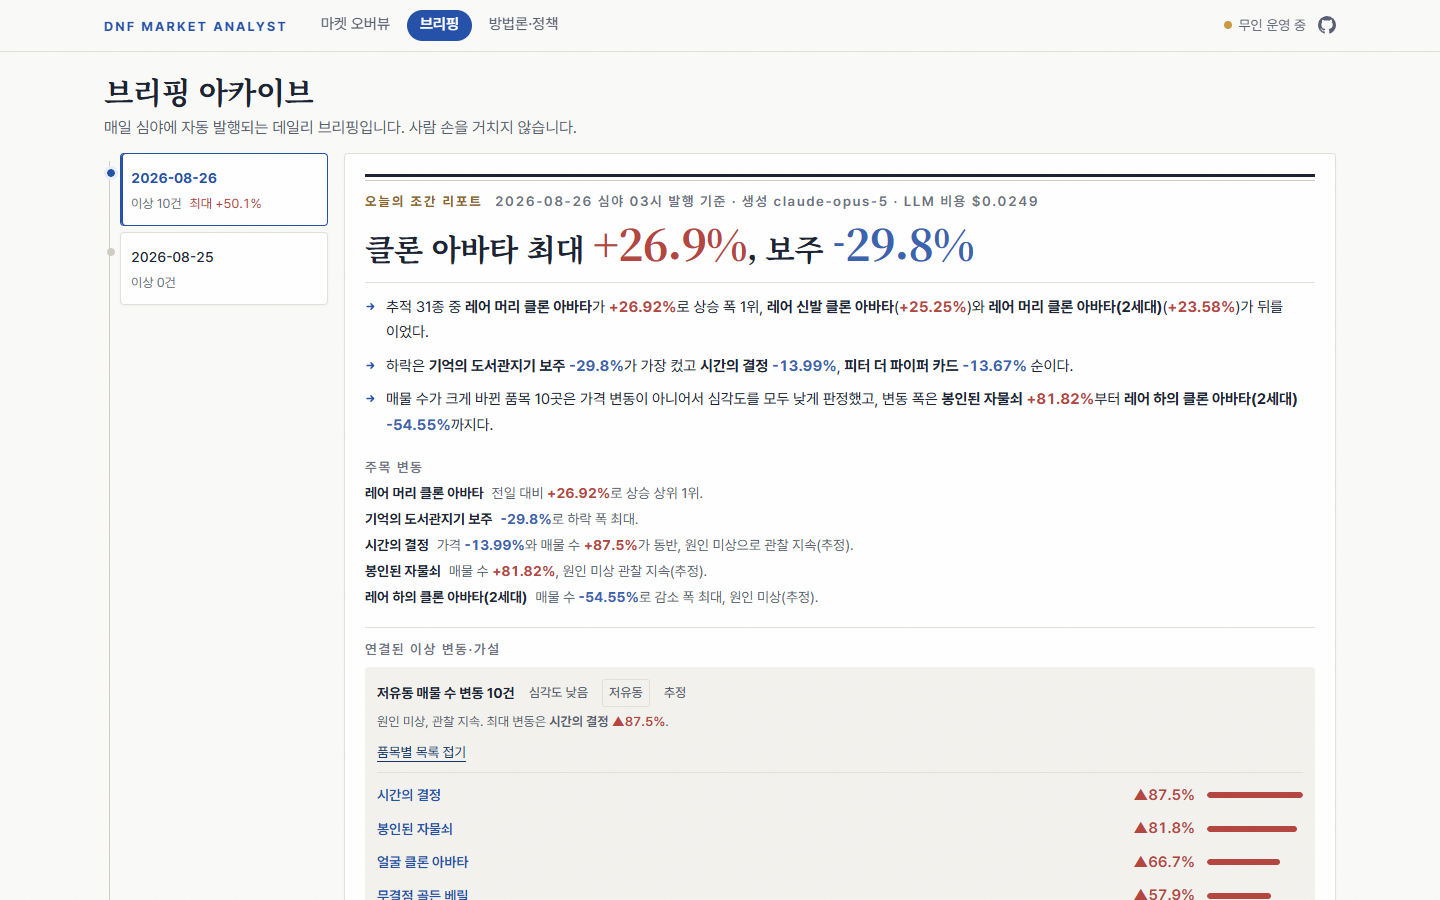
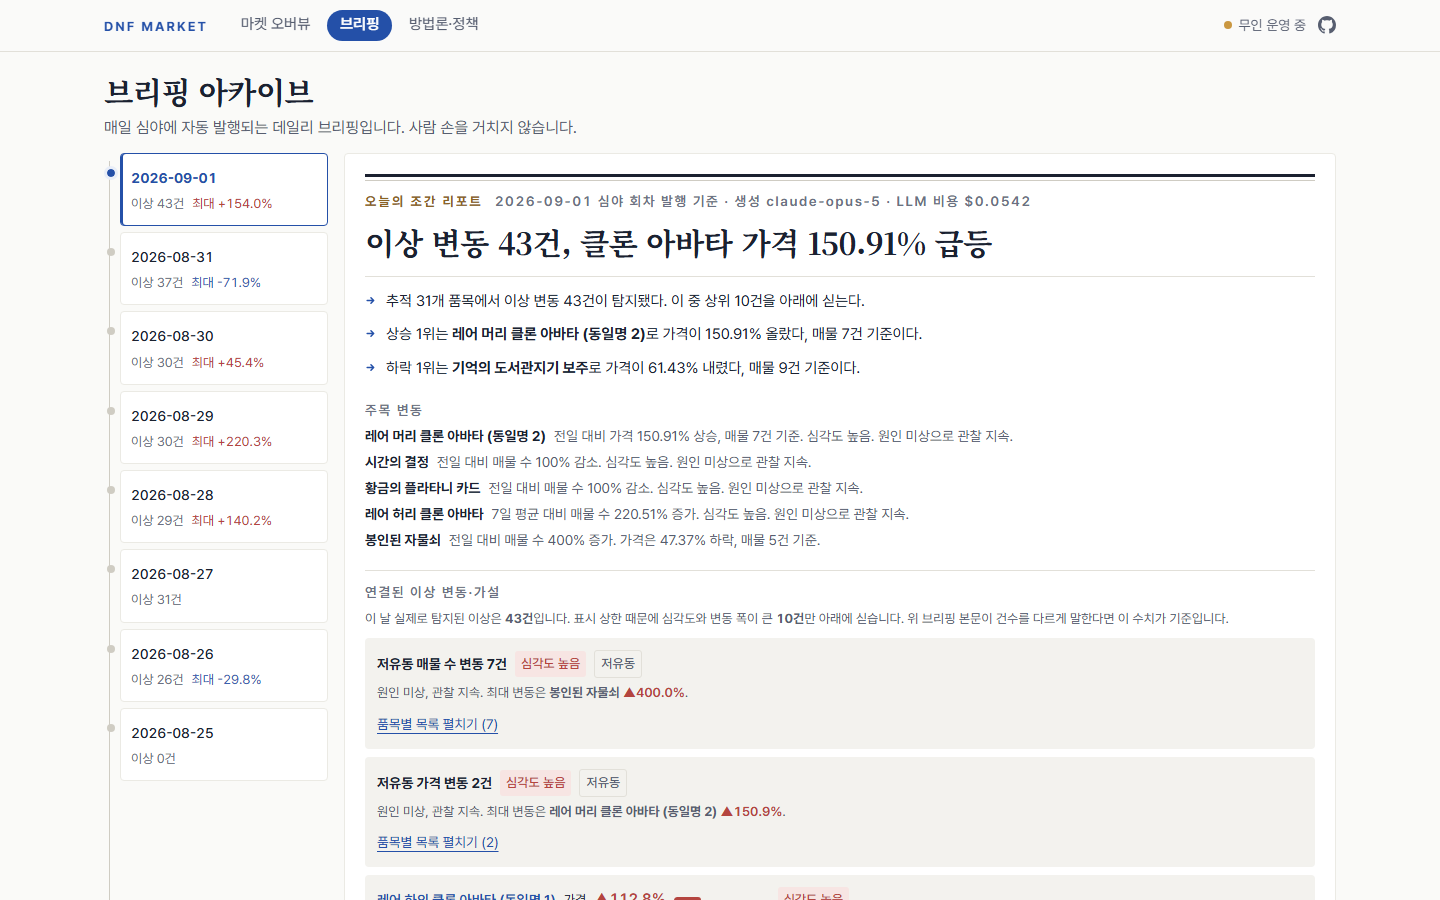
[docs] README 전면 재작성, 스크린샷 최신화
DNF Census README와 같은 말투·구조로 다시 썼다.

- ~한다체를 전부 ~습니다체로. 굵은 글씨는 문서 전체에서 1곳만 남김
- 내부 용어를 쉬운 말로 교체 ("멱등 병합" → "같은 회차가 두 번 들어와도 한 번만 반영",
  "스냅샷 축적 구조" → "값을 볼 때마다 직접 찍어 쌓는 구조").
  3층 CSS 토큰 같은 구현 서술은 삭제
- census형 이야기 구조로 재편: 무엇을 만들었나 / 어떻게 돌아가나 /
  운영하며 겪은 일 / 무엇을 어떻게 탐지하나 / 품목 31종을 고른 기준 /
  비용 실측 / 데이터 윤리 원칙 / 어떻게 만들었나 / 이 대시보드에서 쓰는 말 / 고지
- "운영하며 겪은 일" 신설. 점검일 전 품목 실패, 대표값 정의 변경과 과거 브리핑
  재현 불가, 예약 실행 지연 3건을 각각 무슨 일이 있었고 어떻게 판단했고 지금은
  어떤지로 정리
- 수치를 현행 데이터와 대조해 교정. 품목 묶음 구성을 실제 items.json 기준으로
  다시 씀(큐브 4, 제작·마법부여 3, 증폭 2, 기타 3, 상자 1, 마법부여 4,
  레어 아바타 12, 일반 아바타 2). 비용 실측을 원장 누적값으로 갱신
  (해석 회당 $0.0016 / 32회, 브리핑 회당 $0.0380 / 14회, 하루 최대 $0.29)
- 스크린샷 3장을 배포된 최신 화면으로 재촬영 (1440x900, 순위 보드·조간 리포트·새 차트 반영)

diff --git a/README.md b/README.md
@@ -1,126 +1,233 @@
 # DNF Market, 던파 시세 분석·브리핑
 
-> 기존 던파 시세 서비스가 "지금 얼마인지"를 보여주는 **조회 도구**라면, 본 시스템은
-> **"왜 움직였고 무엇을 주목해야 하는지"를 해석해 데일리 브리핑으로 만드는 분석 시스템**이다.
+던전앤파이터 경매장 시세를 매일 자동으로 모으고, 크게 움직인 품목이 왜 움직였는지까지
+사람 손 없이 적어 내보내는 대시보드입니다.
 
-던전앤파이터 경매장 시세를 매일 자동 수집한다.
-이상 변동을 탐지하면 AI가 공식 공지·이벤트를 교차해 원인 가설을 근거 URL·신뢰도와 함께 작성하고, 데일리 브리핑을 무인 발행한다.
+**대시보드**: https://dnf-market.vercel.app
 
-**Live**: https://dnf-market.vercel.app
+사이트 이름은 DNF Market입니다. 저장소는 https://github.com/Yegeon99/dnf-market, 배포 주소는 https://dnf-market.vercel.app 입니다.
 
-형제 프로젝트: [DNF Census](https://dnf-census.vercel.app) ([저장소](https://github.com/Yegeon99/dnf-census)).
-시장에 이어 **유저**를 보는 캐릭터 표본조사 **7화면 인터랙티브 리포트**로, 두 프로젝트는 같은 디자인 언어를 공유한다.
+형제 프로젝트는 [DNF Census](https://dnf-census.vercel.app)입니다. 시장 대신 유저를 보는
+캐릭터 표본조사 리포트이고, 두 프로젝트는 같은 디자인 언어를 씁니다.
 
-> **운영 중 시스템.** 본 대시보드는 매일 자동으로 데이터가 추가된다.
-> 수집 시작일 2026-08-25. 하루 6회(KST 02:17·07:17·11:17·15:17·19:17·23:17) 자동 수집, 심야 회차 자동 분석·브리핑 발행.
+![마켓 오버뷰 화면](docs/screenshots/overview.png)
 
-| 마켓 오버뷰 | 아이템 상세 | 브리핑 아카이브 |
-|---|---|---|
-| ![마켓 오버뷰](docs/screenshots/overview.png) | ![아이템 상세](docs/screenshots/item-detail.png) | ![브리핑 아카이브](docs/screenshots/briefings.png) |
-
-## 아키텍처, 사람 손 없이 매일 갱신되는 구조
-
-Neople 오픈 API는 시세 **히스토리를 제공하지 않는다**. 그래서 스냅샷 축적 구조를 직접 설계했다.
-수집 시작일이 곧 데이터 자산의 시작이다.
-
-```
-Neople 오픈 API (경매장 등록가 · 판매 완료)
-        ↓  GitHub Actions cron, 하루 6회 (KST 02:17·07:17·11:17·15:17·19:17·23:17)
-collect.py   → data/snapshots/*.json  (31품목, 호출 62회/회, 집계 수치만 저장)
-        ↓
-aggregate.py → data/timeseries.json  (회차 중복 방지 멱등 병합)
-        ↓  심야 회차(02:17)에서만, daily.yml
-detect.py    → 규칙 기반 이상 탐지 → data/anomalies.json
-        ↓  이상 항목만 (전 품목 LLM 호출 금지)
-interpret.py → ±3일 공지·이벤트 교차 → AI 원인 가설 (근거 URL + 확정/추정)
-        ↓
-briefing.py  → 데일리 브리핑 발행 → data/briefings.json
-        ↓  Actions 봇이 data/ 경로만 커밋
-   git push  → Vercel 자동 재배포 → 대시보드 갱신 (무인 운영)
-```
-
-수집, 분석, 발행, 배포 전 과정이 자동이다. 이 저장소의 커밋 로그가 곧 무인 운영의 증명이다.
-
-## 이상 탐지 기준 (전체 공개)
-
-임계치는 [`config/thresholds.json`](config/thresholds.json)에서 관리한다.
-
-| 규칙 | 지표 | 낮음 | 중간 | 높음 |
-|---|---|---|---|---|
-| 전일 대비 | 평균 등록가 | ±8% | ±15% | ±30% |
-| 전일 대비 | 매물 수 | ±30% | ±50% | ±100% |
-| 7일 이동평균 이탈* | 평균 등록가 | 없음 | ±12% | ±25% |
-| 7일 이동평균 이탈* | 매물 수 | 없음 | ±40% | ±80% |
-
-\* 품목별 데이터 7일 이상 축적 시 자동 활성화 (그 전에는 전일 대비만 적용)
-
-**저유동 보정.** 매물 30건 미만 품목은 소수 등록·거래만으로 지표가 급변할 수 있다.
-당일 연속 2회차 지속 변동일 때만 "중간" 이상 심각도를 유지하고, 대시보드에 `저유동` 뱃지로 해석 주의를 안내한다.
-매물 5건 미만이 이틀 연속이면 가격 신호 자체를 채택하지 않는다.
-
-**AI 정직성.** 가설은 수동 큐레이션한 공식 공지(±3일)만 근거로 하며, 근거 URL과 신뢰도(확정/추정)를 반드시 병기한다.
-근거가 없으면 **"원인 미상, 관찰 지속"** 으로 남긴다. 시점 일치를 인과로 단정하지 않는다.
-수집 실패 회차는 차트에 공백으로 그대로 표기한다.
-
-## 추적 품목 31종, 선정 근거
-
-전 품목이 아니라 시장 대표성 있는 품목을 선정하고 근거를 문서화했다
-([`config/items.json`](config/items.json)에 품목별 선정 사유 기록).
-
-- **강화·스킬 재료** (6종): 무색·흑색·흰색·황금 큐브 조각, 하급·상급 원소결정. 전 직업 소모 기초재로 던파 경제의 기축
-- **증폭 재료** (2종): 순수한 증폭서, 농밀한 이계의 정수. 고점 수요에 이벤트 민감
-- **성장 재료** (5종): 시간의 결정, 균열의 단편 등. 시즌 콘텐츠 수급 직결
-- **마법부여** (4종): 도서관지기 카드·보주 등. 고가 저유동으로 패치 민감
-- **레어·일반 아바타** (14종): 클론 아바타 부위별. 아바타 상자 이벤트에 즉각 반응
-
-64종 후보를 실매물 검증(2일 연속 매물 존재)으로 걸러 31종을 확정했다.
-
-## LLM 비용 실측
-
-| 단계 | 모델 | 실측 비용 |
-|---|---|---|
-| 이상 해석 | claude-haiku-4-5 | $0.0010 / 건 (in 760 · out 48 tok) |
-| 브리핑 생성 | claude-opus-5 | $0.0133 / 회 (in 662 · out 398 tok) |
-| **최악 하루** (이상 10건 + 브리핑) | | **$0.0233** |
-
-- LLM은 **이상 탐지된 항목에만** 호출한다 (전 품목 호출 금지)
-- 이상 0건인 날은 무비용 규칙 기반 "안정 구간" 브리핑을 낸다 (억지 이슈 생성 금지)
-- 일 상한 $0.30 초과 시 실행을 자동 중단하고 로그로 보고한다 (`pipeline/llm.py`)
-- 브리핑별 비용은 대시보드에 그대로 공개된다
-
-## 데이터 정책
-
-- API 원본 응답을 저장하지 않는다. 분석에 필요한 **집계 수치만** 축적한다
-  (최저/평균 단가, 매물 수, 24시간 판매 수·평균)
-- API 매너: 호출 간 대기 0.3초, 재시도 2회 제한(30초·120초 백오프, 서버 전면 장애 시 조기 중단), 하루 6회 수집(372호출/일), 품목 수 상한. 절제 설계 자체를 공개한다
-- 수집 시작(2026-08-25) 이전 구간은 판매완료 API를 거슬러 올라가 **과거 실거래만 일 단위로 소급 수집**했다
-  (source: "backfill"로 구분). 등록가·매물 수는 과거 조회가 불가능해 소급하지 않았고, 차트와 방법론 페이지에 소급 사실을 명시한다
-- 매물 수는 조회 상한(400건), 실거래는 최근 100건 상한 내 집계다. 한계도 그대로 표기한다
-- 게임 그래픽은 Neople 오픈 API가 제공하는 아이템 아이콘만 사용. 비상업 개인 포트폴리오
-
-## 디자인
-
-[DNF Census](https://dnf-census.vercel.app)와 같은 가족의 디자인 언어를 쓴다.
-오프화이트 종이 바탕, 잉크 네이비, 액센트 블루 1색, 보조 골드.
-색·타이포·간격은 primitive, semantic, component 3층 CSS 변수 토큰으로 관리한다 (`dashboard/src/index.css`).
-Census가 "읽는 리포트"라면 이 대시보드는 "살아있는 관제 화면"이다.
-
-## 실행
-
-```bash
-# 파이프라인 (Python 3.11)
-python -m venv .venv && .venv/Scripts/pip install -r requirements.txt
-.venv/Scripts/python pipeline/run_daily.py   # 수집 → 집계 → 탐지 → 해석 → 브리핑
-
-# 대시보드 (Node 20+)
-cd dashboard && npm install && npm run dev   # predev가 data/를 public/으로 동기화
-```
-
-환경변수: `.env`에 `NEOPLE_API_KEY`, `ANTHROPIC_API_KEY` (Actions에서는 GitHub Secrets).
+> 지금 얼마인지 보여주는 조회 도구가 아닙니다. 왜 움직였고 무엇을 눈여겨봐야 하는지를
+> 매일 한 편의 글로 만들어 내보내는 것이 목적입니다.
 
 ---
 
-**이 서비스는 Neople 오픈 API에서 제공받은 데이터를 일부 가공하여 활용하고 있습니다.**
-데이터 출처: [Neople 오픈 API](https://developers.neople.co.kr)
+## 무엇을 만들었나
 
-본 프로젝트는 **비공식 팬메이드 포트폴리오**이며 ㈜네오플·㈜넥슨코리아와 무관합니다.
+던파 경매장 품목 31종의 값을 하루 최대 여섯 번 모읍니다. 어제와 견줘 크게 움직인 품목이
+있으면 규칙으로 먼저 걸러내고, 걸린 항목만 AI에게 넘겨 공식 공지와 대조해 원인 가설을
+쓰게 합니다.
+
+그날의 이야기는 매일 심야에 짧은 브리핑으로 발행됩니다. 수집부터 발행, 배포까지 사람이
+누르는 버튼은 없습니다. 이 저장소의 커밋 기록이 그 증거입니다.
+
+이상이 하나도 없는 날은 AI를 부르지 않고 규칙만으로 "조용한 날"이라고 적습니다. 없는
+이슈를 만들지 않기 위해서입니다.
+
+| 아이템 상세 | 브리핑 아카이브 |
+|---|---|
+| ![아이템 상세 화면](docs/screenshots/item-detail.png) | ![브리핑 아카이브 화면](docs/screenshots/briefings.png) |
+
+---
+
+## 어떻게 돌아가나
+
+Neople 오픈 API는 지나간 시세를 돌려주지 않습니다. 그래서 값을 볼 때마다 직접 찍어
+쌓는 구조를 만들었습니다. 수집을 시작한 날이 곧 이 데이터의 시작입니다.
+
+```
+Neople 오픈 API (경매장 등록가 · 판매 완료)
+        ↓  GitHub Actions 예약 실행, 하루 최대 6회
+           KST 02:17 · 07:17 · 11:17 · 15:17 · 19:17 · 23:17
+collect.py    시세를 찍어 저장 (31품목, 회차당 62호출, 집계 수치만 남김)
+        ↓
+aggregate.py  회차들을 시계열 하나로 합침 (같은 회차가 두 번 들어와도 한 번만 반영)
+        ↓  심야 회차에서만 이어서 실행
+detect.py     규칙으로 이상 변동 판정
+        ↓  걸린 항목만
+interpret.py  앞뒤 3일 공지·이벤트와 대조해 원인 가설 작성 (근거 주소와 신뢰도 병기)
+        ↓
+briefing.py   그날의 브리핑 발행
+        ↓  봇이 data/ 경로만 커밋
+   git push   Vercel이 자동으로 다시 배포하고 화면이 갱신됨
+```
+
+수집 시작일은 2026년 8월 25일입니다. 그 이전 구간은 판매완료 기록을 거슬러 올라가
+2026년 7월 26일부터 8월 24일까지 30일치 실거래만 하루 단위로 채워 넣었습니다.
+등록가와 매물 수는 지난 값을 조회할 방법이 없어 채우지 않았고, 화면에서 이 구간은
+점선으로 구분해 표시합니다.
+
+---
+
+## 운영하며 겪은 일
+
+만들 때 정한 규칙보다, 돌리면서 부딪힌 일이 이 프로젝트의 내용에 더 가깝습니다.
+
+### 점검일에 하루치가 통째로 비었습니다
+
+2026년 8월 27일 새벽 회차에서 62번의 호출이 전부 실패했습니다. 게임 정기점검과 겹쳐
+API가 통째로 닫혀 있었습니다. 값이 하나도 없는 회차를 시계열에 넣으면 그날 시세가
+0으로 꺾인 것처럼 보이기 때문에, 실패한 회차는 합치지 않고 차트에 빈칸으로 남기기로
+했습니다. 대신 그 사실을 화면 상태 바에 그대로 띄우고, 수집이 실패한 날에도 전날 값을
+기준으로 브리핑을 내보내게 했습니다. 지금은 전 품목 실패라도 원인이 외부 장애면 경고만
+남기고 정상 종료하고, 인증이나 코드 문제일 때만 실패로 처리합니다.
+
+### 계산 방식을 바꾸자 과거 브리핑이 재현되지 않았습니다
+
+대표 가격을 매물 평균으로 잡았더니, 매물이 두 건뿐인 품목에서 시세의 열 배로 올려둔
+한 건이 평균을 통째로 끌고 갔습니다. 그래서 중앙값으로 바꾸고 회차 라벨도 수집 시각
+기준으로 다시 매겼습니다. 그러자 이전에 발행한 브리핑 세 건의 수치를 지금 데이터로는
+다시 만들어 낼 수 없게 됐습니다. 발행된 글을 나중에 손보면 아카이브가 기록이 아니게
+되므로 과거 브리핑은 고치지 않았습니다. 대신 해당 브리핑에 발행 당시 기준이라는 안내를
+붙이고, 자동 검증은 계산 방식이 바뀐 날을 기준으로 구간을 나눠 이전 구간의 재현 불가
+건수를 목록으로 보여 줍니다.
+
+### 예약 실행이 조용히 밀렸습니다
+
+정각에 예약을 걸어 두었더니 실행이 늦어지거나 아예 건너뛰는 회차가 생겼습니다. 예약이
+30분에서 110분까지 밀리는 날도 있었고, 그 바람에 새벽 3시로 걸어 둔 회차가 목요일
+점검 시간과 겹쳐 통째로 실패했습니다. 지금은 모든 회차를 정각이 아닌 17분으로 옮기고,
+심야 회차를 2시대로 앞당겨 점검 시간을 피합니다. 그래도 회차는 빌 수 있어서, 화면에는
+예약 횟수가 아니라 실제로 성공한 회차 수를 적습니다.
+
+---
+
+## 무엇을 어떻게 탐지하나
+
+두 가지만 봅니다. 어제와 견준 변화, 그리고 최근 7일 평균에서 얼마나 벗어났는지입니다.
+기준값은 [config/thresholds.json](config/thresholds.json)에 전부 적어 두었고 화면에도
+그대로 공개합니다.
+
+| 규칙 | 지표 | 낮음 | 중간 | 높음 |
+|---|---|---|---|---|
+| 어제와 견주기 | 등록 대표가 | ±8% | ±15% | ±30% |
+| 어제와 견주기 | 매물 수 | ±30% | ±50% | ±100% |
+| 7일 평균에서 벗어남 | 등록 대표가 | 없음 | ±12% | ±25% |
+| 7일 평균에서 벗어남 | 매물 수 | 없음 | ±40% | ±80% |
+
+7일 평균 규칙은 그 품목의 값이 7일 넘게 쌓인 뒤부터 자동으로 켜집니다. 그 전에는 어제와
+견주기만 씁니다. 어제와 견줄 때는 두 날에 모두 있는 회차끼리만 비교합니다. 회차 구성이
+다른 날을 그대로 견주면 시간대 차이가 변동률로 둔갑하기 때문입니다.
+
+매물이 30건보다 적은 품목은 등록 한두 건으로 지표가 크게 흔들립니다. 이런 품목은 같은
+방향 변동이 그날 두 회차 넘게 이어질 때만 중간 이상으로 보고, 화면에 저유동 표시를 붙여
+해석에 주의하도록 안내합니다. 매물이 5건 미만인 날이 이틀 이어지면 가격 신호 자체를
+쓰지 않습니다.
+
+AI가 쓰는 가설에는 규칙이 있습니다. 손으로 골라 둔 공식 공지 가운데 앞뒤 3일 안의 것만
+근거로 쓰고, 근거 주소와 확정인지 추정인지를 반드시 함께 적습니다. 근거가 없으면 원인
+미상으로 남깁니다. 시점이 겹친다는 이유만으로 원인이라고 단정하지 않습니다.
+
+---
+
+## 품목 31종을 고른 기준
+
+전 품목을 훑지 않고 시장을 대표할 만한 품목만 골랐습니다. 후보 64종을 검색해 경매장에
+실제로 매물이 있는 31종만 남겼습니다. 매물이 0건인 33종은 귀속이거나 거래가 막힌
+품목으로 보고 제외했습니다.
+
+| 묶음 | 종수 | 왜 넣었나 |
+|---|---|---|
+| 큐브 조각 | 4 | 전 직업이 쓰는 기초 재료라 경제의 기준점이 됩니다 |
+| 제작·마법부여 재료 | 3 | 장비를 만들고 옵션을 붙일 때 계속 소모됩니다 |
+| 증폭 재료 | 2 | 고점 수요라 이벤트에 민감합니다 |
+| 기타 재료 | 3 | 시즌 콘텐츠 수급과 바로 이어집니다 |
+| 확률형 상자 | 1 | 상자 이벤트가 열리면 값이 즉시 반응합니다 |
+| 마법부여 | 4 | 값이 비싸고 매물이 적어 패치 영향이 큽니다 |
+| 레어 클론 아바타 | 12 | 아바타 상자 이벤트에 가장 빠르게 반응합니다 |
+| 일반 클론 아바타 | 2 | 레어와 견주기 위한 대조군입니다 |
+
+품목마다 고른 이유를 [config/items.json](config/items.json)에 한 줄씩 적어 두었고
+화면의 방법론 페이지에도 그대로 싣습니다.
+
+이름이 완전히 같은데 거래소에서는 다른 아이템으로 취급되는 클론 아바타가 있습니다.
+공개 API가 주는 이름, 등급, 분류, 설명, 세트가 모두 같아 무엇이 다른지 알 방법이 없어
+등록 순서로 번호만 붙였습니다. 게임에 없는 표현은 지어내지 않았습니다.
+
+---
+
+## 비용 실측
+
+AI는 이상으로 걸린 항목에만 부릅니다. 전 품목을 넣고 돌리는 일은 하지 않습니다.
+
+| 단계 | 모델 | 회당 실측 | 누적 |
+|---|---|---|---|
+| 원인 해석 | claude-haiku-4-5 | $0.0016 | 32회 $0.05 |
+| 브리핑 발행 | claude-opus-5 | $0.0380 | 14회 $0.53 |
+
+하루 비용이 가장 컸던 날은 2026년 8월 30일의 $0.29입니다. 그날은 브리핑을 여러 번 다시
+돌린 날입니다. 평상시 하루는 브리핑 한 번에 해석 몇 건이라 훨씬 적습니다.
+
+하루 상한을 $0.30으로 두고 넘으면 실행을 멈춥니다. 브리핑마다 든 비용은 화면에 그대로
+표시합니다.
+
+---
+
+## 데이터 윤리 원칙
+
+- API가 돌려준 응답 원본은 저장하지 않습니다. 분석에 필요한 집계 수치만 남깁니다.
+- 요청 예절을 지킵니다. 호출 사이 0.3초를 쉬고 재시도는 두 번까지만 하며, 서버가 통째로
+  닫힌 구간에서는 남은 재시도를 끊습니다. 하루 수집은 최대 여섯 회차, 372호출입니다.
+- 수집이 실패한 회차를 채워 넣지 않습니다. 차트에 빈칸으로 그대로 둡니다.
+- 값을 다시 계산하는 방식이 바뀌면 과거 발행분을 고치지 않고 안내를 붙입니다.
+- 매물 수는 조회 상한 400건, 실거래는 최근 100건 안에서 집계한 값입니다. 이 한계를
+  화면에 함께 적습니다.
+- 모델 비용을 실측으로 공개합니다.
+- 게임 그래픽은 Neople 오픈 API가 주는 아이템 아이콘만 씁니다.
+
+---
+
+## 어떻게 만들었나
+
+```
+pipeline/              # Python 파이프라인
+  collect.py           # 시세 수집 (0.3초 대기, 재시도 2회, 외부 장애 판정)
+  aggregate.py         # 회차 병합, 실패 회차 제외
+  detect.py            # 규칙 기반 이상 판정
+  interpret.py         # 공지 대조 원인 가설 (이상 항목만)
+  briefing.py          # 그날의 브리핑 발행
+  llm.py               # 호출 비용 원장, 하루 상한
+config/                # 품목과 선정 사유, 임계치, 공지·이벤트 목록
+data/                  # 회차별 기록, 시계열, 이상, 브리핑, 비용 원장
+dashboard/             # Vite + React 4화면 대시보드
+.github/workflows/     # 예약 수집과 심야 분석
+docs/                  # 검수 기록과 진행 체크리스트
+```
+
+### 재현
+
+```bash
+# .env에 NEOPLE_API_KEY (브리핑까지 돌리려면 ANTHROPIC_API_KEY 추가)
+python -m venv .venv && .venv/Scripts/pip install -r requirements.txt
+
+.venv/Scripts/python pipeline/run_daily.py    # 수집, 병합, 판정, 해석, 발행을 순서대로
+
+cd dashboard && npm install
+npm run dev                                   # 시작 전에 data/를 화면용으로 복사합니다
+npm run audit                                 # 화면 수치와 저장값, 재계산값 3중 대조
+node scripts/screenshot.mjs                   # 1440·390 화면 촬영과 자동 점검
+node scripts/verify-live.mjs                  # 배포본 전 화면 훑기
+```
+
+`npm run audit`은 화면이 쓰는 계산, 파이프라인이 남긴 값, 원본에서 다시 계산한 값을
+서로 대조합니다. 브리핑 본문에 적힌 백분율이 실제 데이터에 있는 수치인지까지 확인합니다.
+
+---
+
+## 이 대시보드에서 쓰는 말
+
+화면 문구는 쉬운 말로 씁니다. 줄표를 쓰지 않고, 코드 이름과 내부 지표 이름을 화면에
+노출하지 않습니다. 수집에 실패했으면 실패했다고 적고, 값이 없으면 없다고 적습니다.
+
+---
+
+## 고지
+
+본 서비스는 Neople 오픈 API에서 제공받은 데이터를 일부 가공하여 활용하고 있습니다.
+비공식 팬메이드 포트폴리오이며 ㈜네오플, 넥슨과 무관합니다. 게임 그래픽은 Neople 오픈
+API가 제공하는 아이템 아이콘만 사용합니다.
